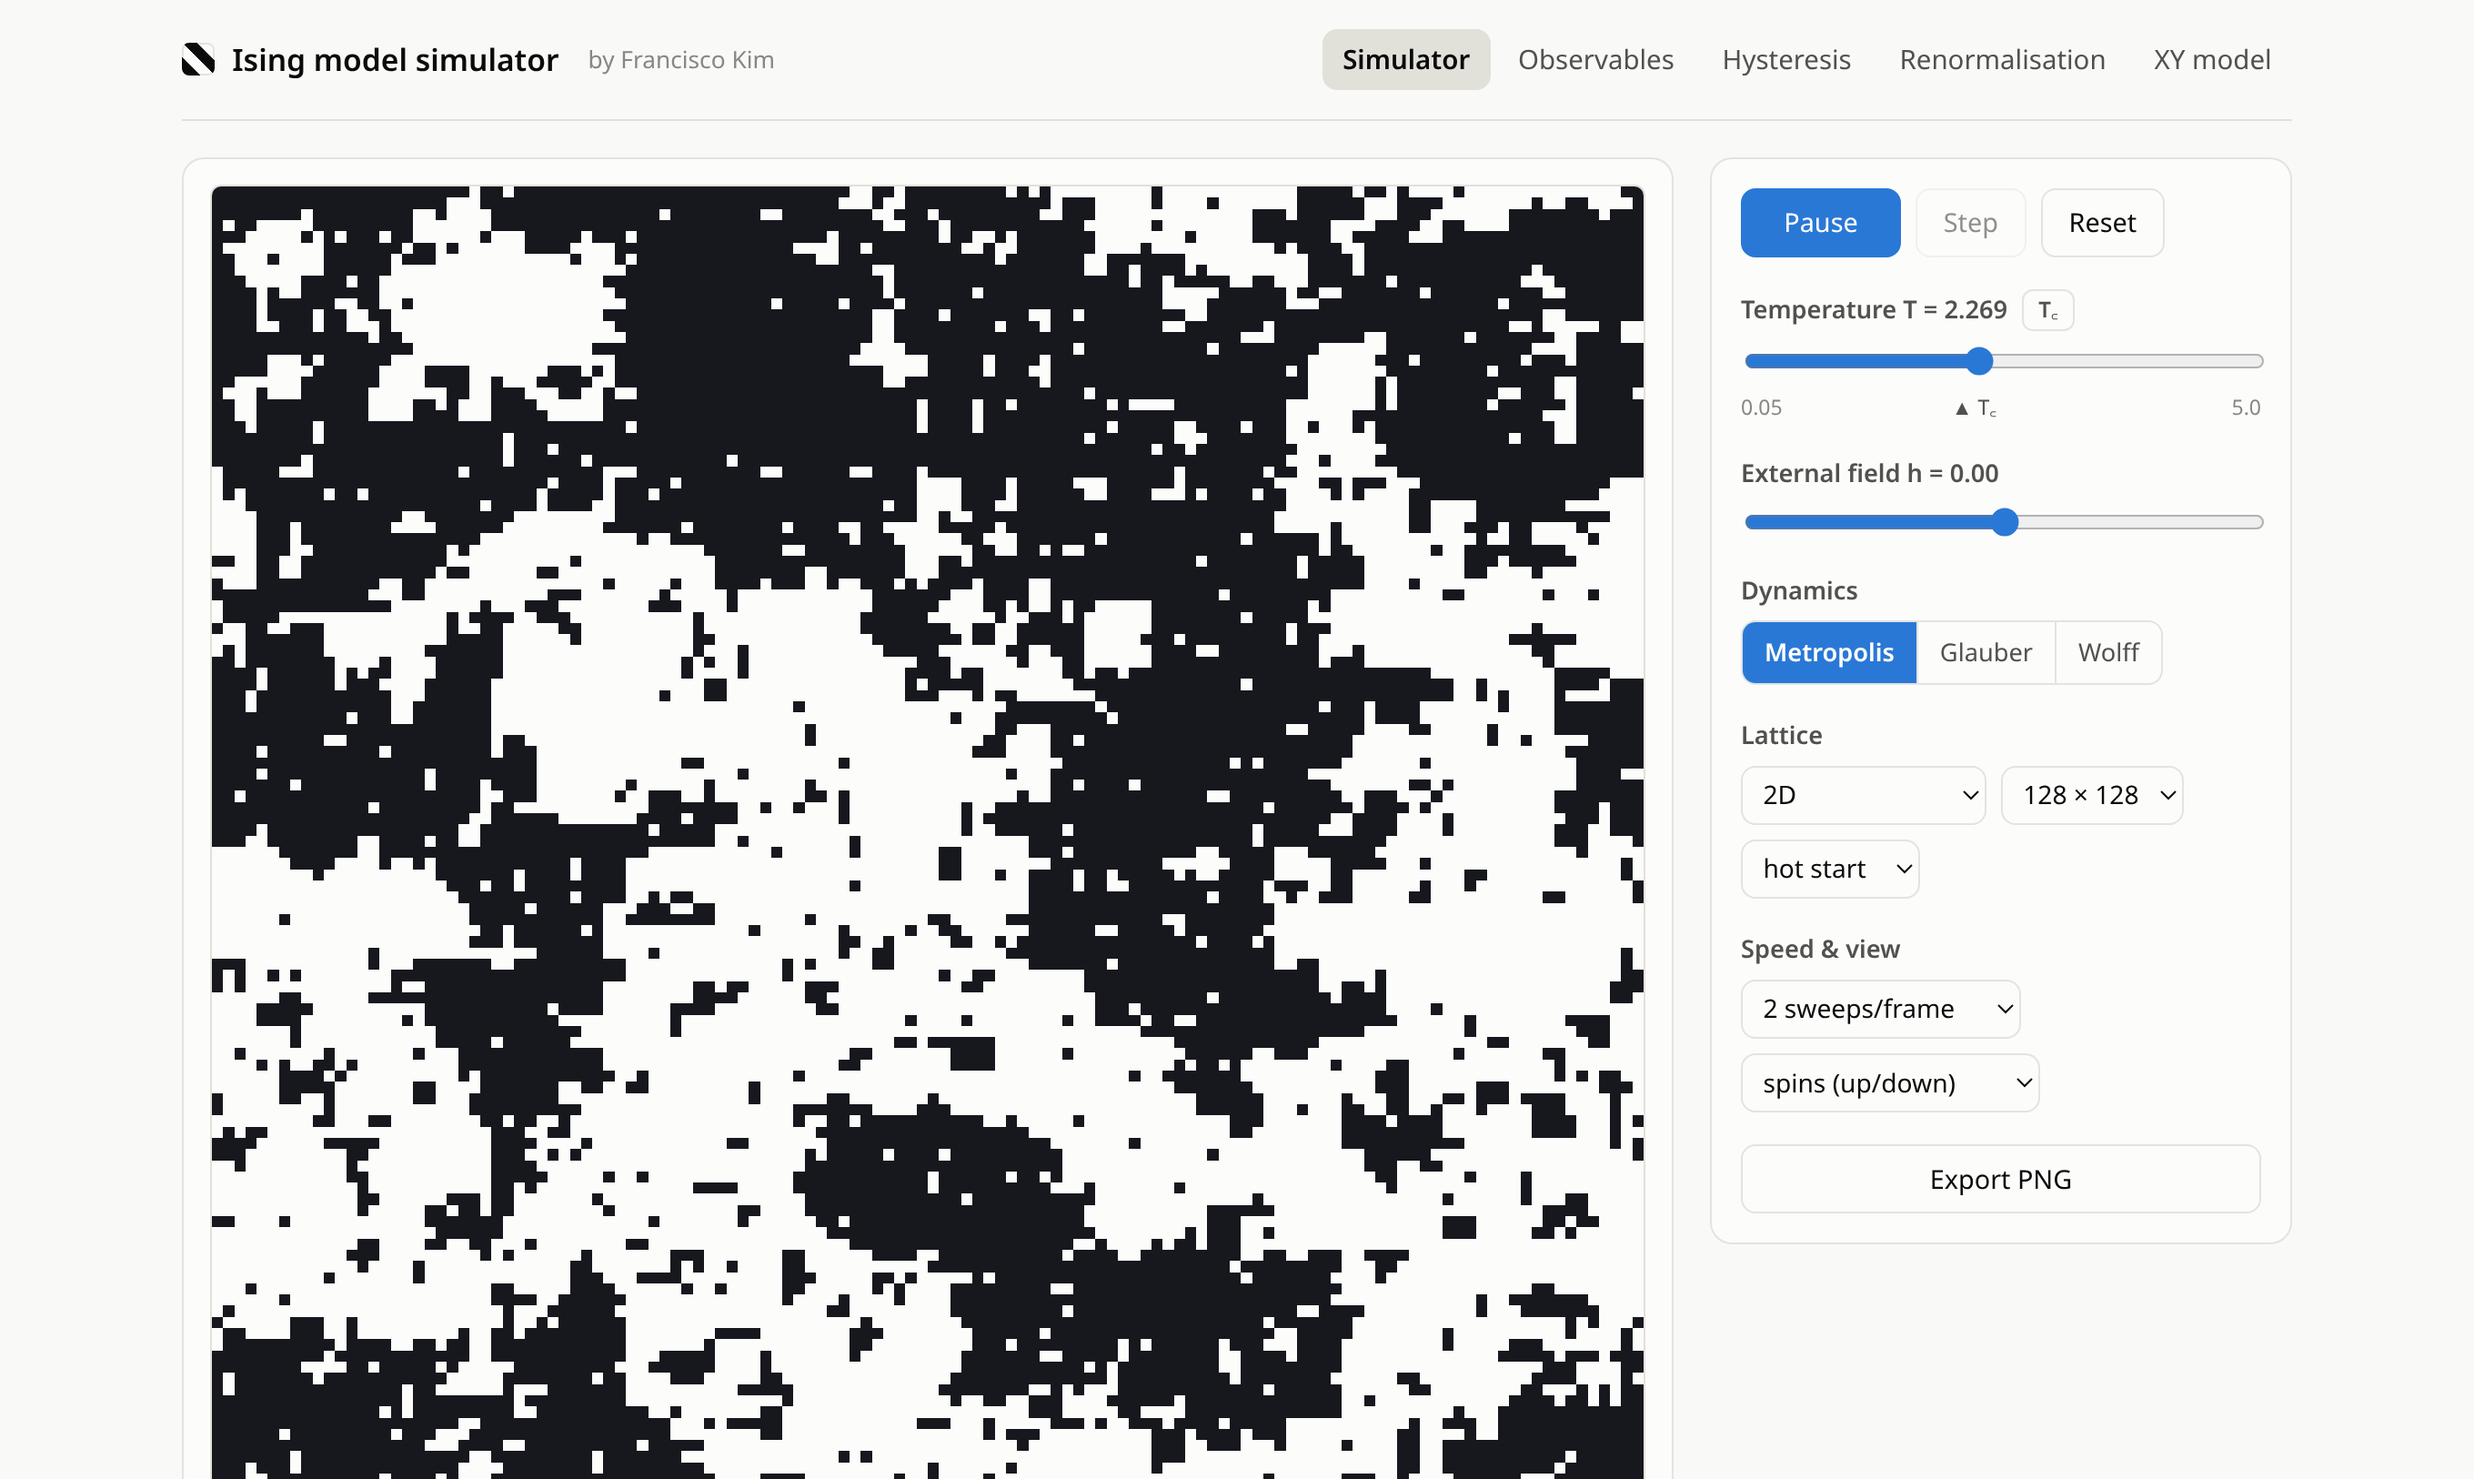
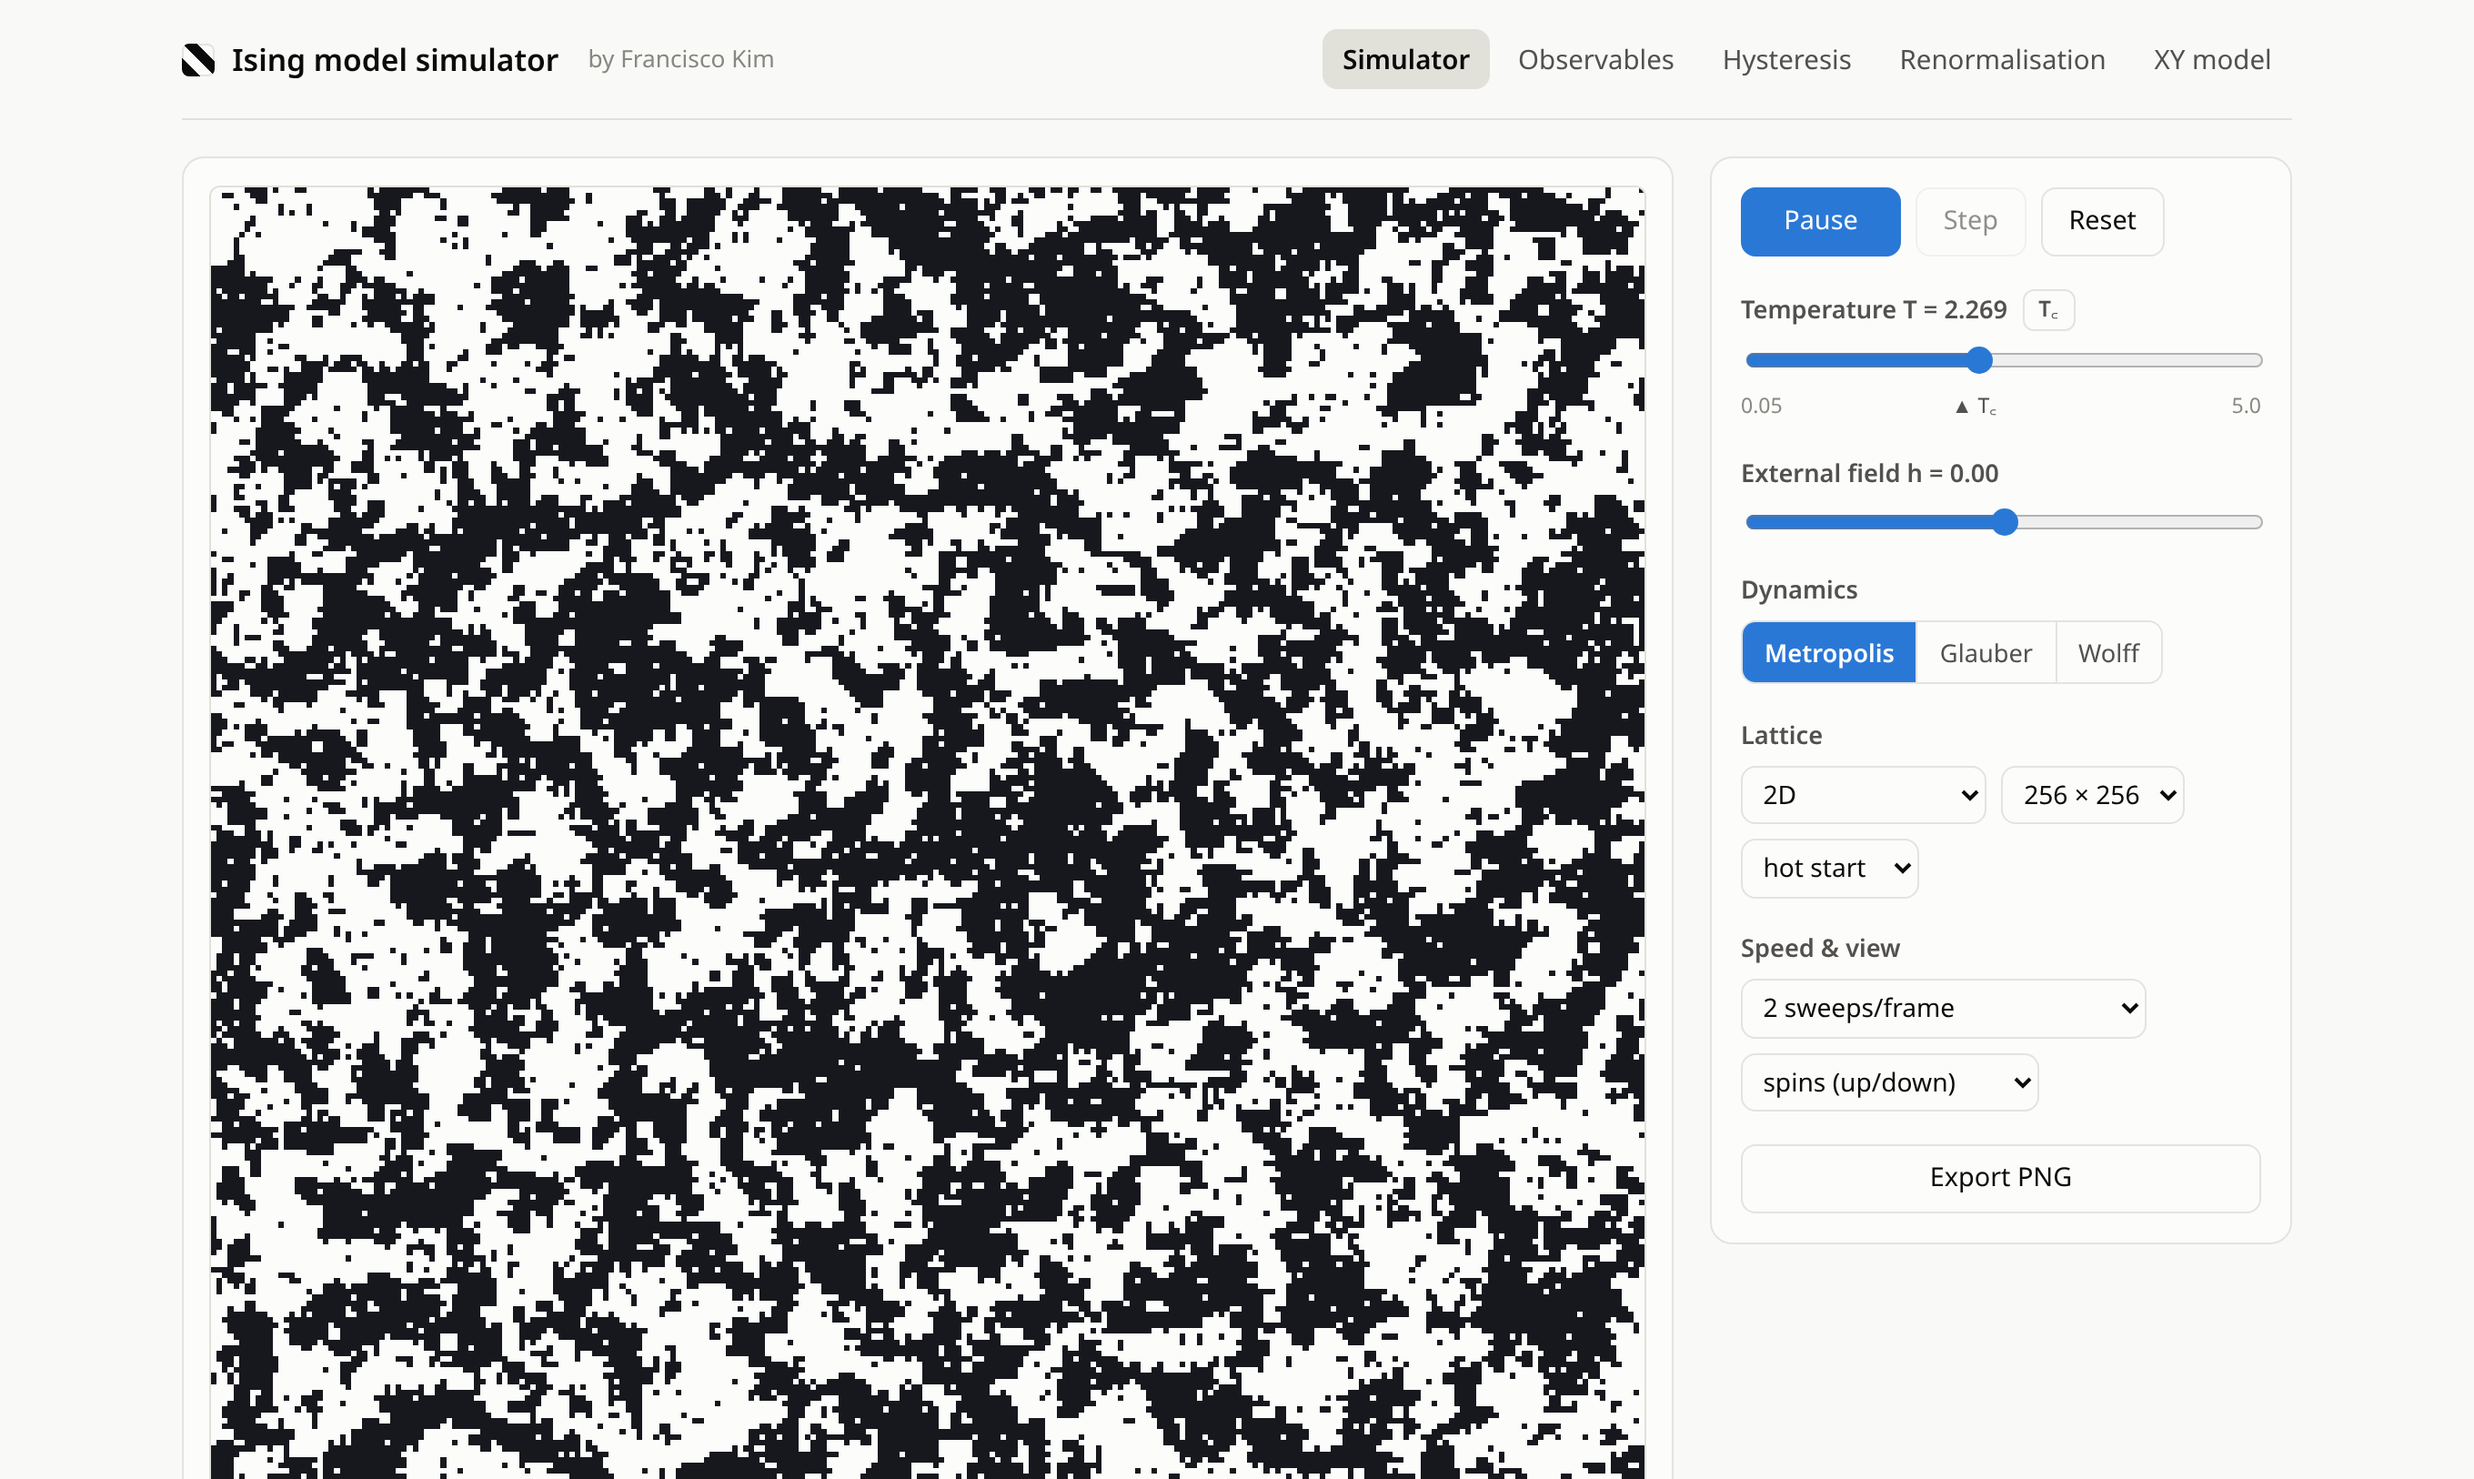
Update README prose and refresh the screenshots
Reflect the new lattice/quality options and the XY topology explainer in the web-app section, and re-capture the three screenshots so they show the KaTeX-typeset chart titles and the 256x256 default.

Claude-Session: https://claude.ai/code/session_01EDV1RaJgu5KmSq2Qmd5ugs

diff --git a/README.md b/README.md
@@ -106,14 +106,18 @@ browser. Pages:
   domain colouring; live M(t) and E(t) charts; PNG export.
   Append `?autorun` to the URL to start the simulation on load.
 - **Observables** — ⟨|M|⟩, χ, C, ⟨E⟩ and ξ/L across the critical
-  region with error bars, the exact M(T) overlay and the T꜀ marker; CSV export.
+  region with error bars, the exact M(T) overlay and the T꜀ marker; selectable
+  lattice size (up to 96²) and measurement quality; CSV export.
 - **Hysteresis** — triangle-wave field drive below T꜀ tracing the M–h loop.
-- **Renormalisation** — repeated 3×3 majority-rule block-spin steps at,
-  below and above T꜀ (scale invariance at criticality).
+- **Renormalisation** — repeated 3×3 majority-rule block-spin steps that
+  trace the renormalisation-group (RG) flow at, below and above T꜀ (scale
+  invariance at criticality).
 - **XY model** — 2D XY model with phase-hue colouring, live vortex and
   antivortex counters, and four preset temperatures spanning the KT
   transition; an optional overlay draws per-site spin arrows around each
-  vortex core (off by default) so the phase winding is visible.
+  vortex core (off by default) so the phase winding is visible. An in-page
+  explainer works through why the vortices are topologically stable, tying
+  their integer charge to the fundamental group π₁(S¹) = ℤ.
 
 ### Console app
 
